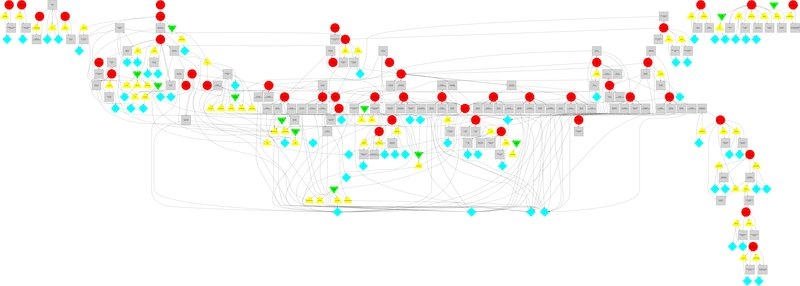
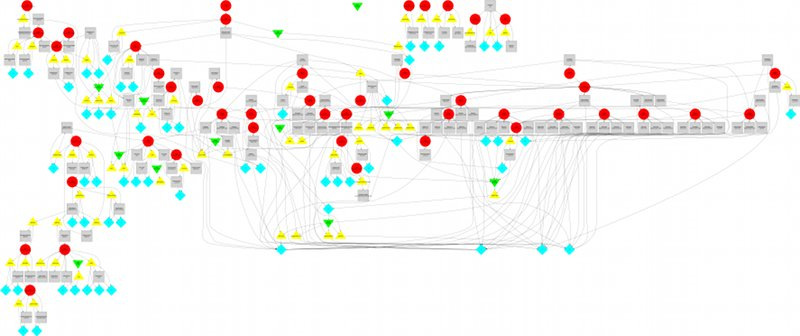
more images better thant text

diff --git a/README.md b/README.md
@@ -16,7 +16,14 @@ This app provides some helpers to add abstraction into concrete classes
 with minimum pain.
 
 ## Example
+### Standard
 ![digraph1](./Resources/doc/img/mondrian-digraph.jpg)
+
+### With centrality (red = more dependent)
+![digraph1](./Resources/doc/img/mondrian-central.jpg)
+
+### LSP violations
+![digraph1](./Resources/doc/img/mondrian-liskov.jpg)
 
 ## How
 
@@ -24,8 +31,27 @@ Read the online documentation [here][4]
 
 And the API [here][5]
 
+## Third party
+
+Packages used in this project :
+
+ * [nikic/php-parser][6]
+ * [symfony/console][7]
+ * [alom/graphviz][8]
+ * [symfony/finder][9]
+
+## Special thanks
+
+ * William Gibson
+ * JS Bach
+ * Dream Theater
+
 [1]: http://en.wikipedia.org/wiki/Graph_theory
 [2]: http://en.wikipedia.org/wiki/Law_of_Demeter
 [3]: http://en.wikipedia.org/wiki/SOLID_(object-oriented_design)
 [4]: http://trismegiste.github.io/Mondrian/
 [5]: http://trismegiste.github.io/Mondrian/doc/index.html
+[6]: https://github.com/nikic/PHP-Parser
+[7]: https://github.com/symfony/Console
+[8]: https://github.com/alexandresalome/graphviz
+[9]: https://github.com/symfony/Finder
